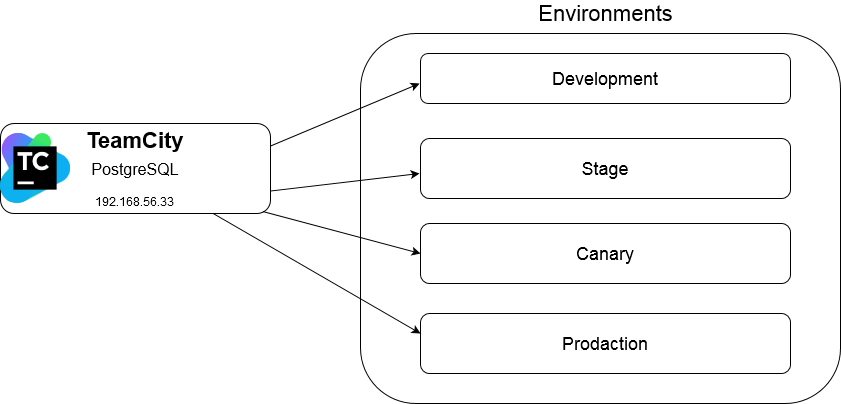
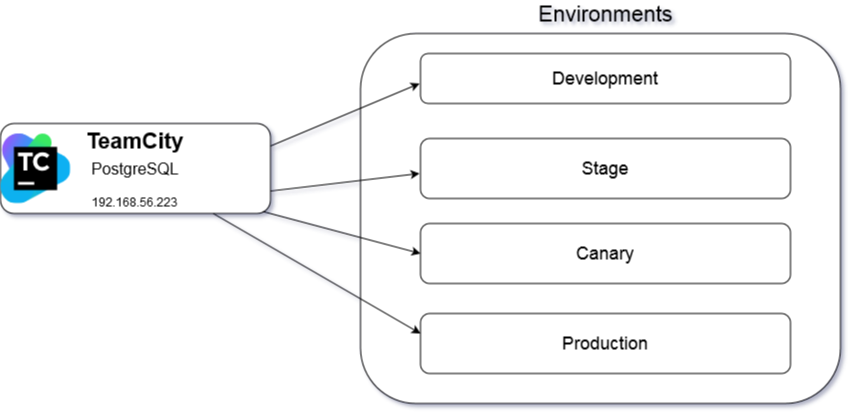
schema bag

diff --git a/README.md b/README.md
@@ -1,4 +1,4 @@
-# Task1 - D-tester 
+# Task1 - D-tester + TeamCity
 
 Scheme of our Infrastructure:
 ![Scheme](./sheme.png)
